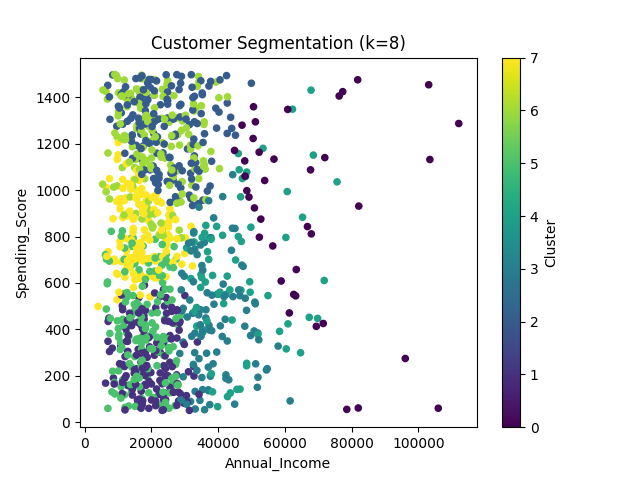
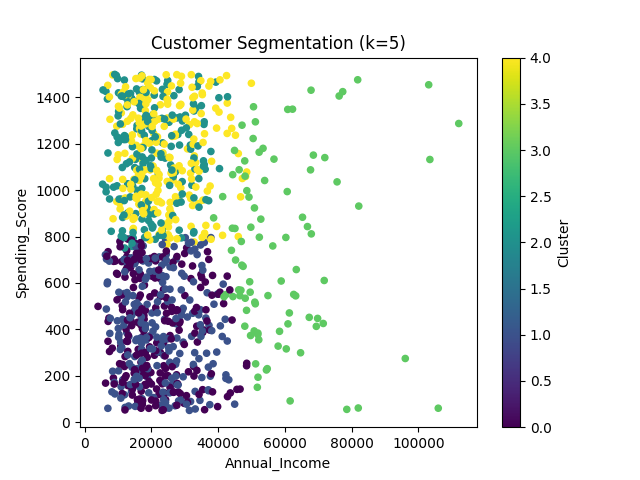
updated

diff --git a/templates/index.html b/templates/index.html
@@ -26,7 +26,7 @@
             display: inline-block;
             white-space: nowrap;
             position: relative;
-            animation: ticker 15s linear infinite;
+            animation: ticker 18s linear infinite;
             font-weight: 600;
             font-size: 1.1rem;
             color: #212529;
@@ -36,6 +36,20 @@
             0%   { transform: translateX(100%); }
             100% { transform: translateX(-100%); }
         }
+
+        /* Cell highlight styles */
+        .highlight-green { background-color: #28a745 !important; color: white !important; } /* Highest Income */
+        .highlight-red { background-color: #dc3545 !important; color: white !important; }   /* Lowest Spending */
+        .highlight-blue { background-color: #007bff !important; color: white !important; }  /* Highest Spending */
+
+        /* Legend styling */
+        .legend-box {
+            display: inline-block;
+            width: 18px;
+            height: 18px;
+            margin-right: 6px;
+            border-radius: 3px;
+        }
     </style>
 </head>
 <body class="bg-light">
@@ -44,7 +58,9 @@
     <!-- ✅ Professional Banner -->
     <div class="author-banner text-center">
         <div class="scrolling-text">
-            Final Project – Customer Segmentation | By: <span class="text-primary">Osazuwa Omoregbe</span> | 🌍 Deployed on <strong>Render</strong> (AWS deployment attempt unsuccessful)
+            FINAL PROJECT – Customer Segmentation at LG Corporation | By: 
+            <span class="text-primary">Osazuwa Stanley Omoregbe</span> | 🌍 Deployed on 
+            <strong>Render</strong> (AWS deployment attempt unsuccessful)
         </div>
     </div>
 
@@ -89,6 +105,77 @@
     <div class="card shadow-sm">
         <div class="card-body">
             {{ cluster_summary | safe }}
+            <script>
+                document.addEventListener("DOMContentLoaded", function() {
+                    const tables = document.querySelectorAll("table");
+                    tables.forEach(table => {
+                        table.classList.add("table", "table-striped", "table-bordered", "align-middle", "text-center");
+
+                        let rows = table.querySelectorAll("tbody tr");
+                        let maxIncome = -Infinity, minSpending = Infinity, maxSpending = -Infinity;
+                        let incomeIndex = -1, spendingIndex = -1;
+
+                        // Find column indexes
+                        table.querySelectorAll("thead th").forEach((th, i) => {
+                            if (th.innerText.includes("Annual_Income")) incomeIndex = i;
+                            if (th.innerText.includes("Spending_Score")) spendingIndex = i;
+                        });
+
+                        // Find max/min values
+                        rows.forEach(row => {
+                            let income = parseInt(row.cells[incomeIndex].innerText.replace(/,/g, ""));
+                            let spending = parseInt(row.cells[spendingIndex].innerText.replace(/,/g, ""));
+                            if (income > maxIncome) maxIncome = income;
+                            if (spending < minSpending) minSpending = spending;
+                            if (spending > maxSpending) maxSpending = spending;
+                        });
+
+                        // Apply highlights to specific cells
+                        rows.forEach(row => {
+                            let incomeCell = row.cells[incomeIndex];
+                            let spendingCell = row.cells[spendingIndex];
+                            let income = parseInt(incomeCell.innerText.replace(/,/g, ""));
+                            let spending = parseInt(spendingCell.innerText.replace(/,/g, ""));
+                            if (income === maxIncome) incomeCell.classList.add("highlight-green");
+                            if (spending === minSpending) spendingCell.classList.add("highlight-red");
+                            if (spending === maxSpending) spendingCell.classList.add("highlight-blue");
+                        });
+                    });
+                });
+            </script>
+
+            <!-- ✅ Legend -->
+            <div class="mt-3">
+                <p><span class="legend-box" style="background-color:#28a745;"></span> Highest Annual Income</p>
+                <p><span class="legend-box" style="background-color:#dc3545;"></span> Lowest Spending Score</p>
+                <p><span class="legend-box" style="background-color:#007bff;"></span> Highest Spending Score</p>
+            </div>
+
+            <!-- ✅ Insights Section -->
+            <div class="alert alert-info mt-4">
+                <h5>📌 Key Insights</h5>
+                <p>
+                    The cluster with the <strong>highest income</strong> (green) represents LG’s wealthiest customers, 
+                    who are prime candidates for premium product offerings.  
+                    The cluster with the <strong>lowest spending score</strong> (red) highlights customers who are 
+                    less engaged, suggesting a need for retention strategies.  
+                    Meanwhile, the cluster with the <strong>highest spending score</strong> (blue) identifies 
+                    LG’s most valuable and loyal customers, who should be prioritized for loyalty programs 
+                    and exclusive promotions.
+                </p>
+            </div>
+
+            <!-- ✅ Recommendations Section -->
+            <div class="alert alert-success mt-3">
+                <h5>💡 Strategic Recommendations</h5>
+                <ul class="mb-0">
+                    <li><strong>Premium Upsell:</strong> Target high-income customers with luxury products, extended warranties, and exclusive bundles.</li>
+                    <li><strong>Retention Campaigns:</strong> Re-engage low-spending clusters with personalized offers, discounts, and customer service outreach.</li>
+                    <li><strong>Loyalty Programs:</strong> Reward high-spending clusters with VIP memberships, early access to new products, and referral bonuses.</li>
+                    <li><strong>Data-Driven Marketing:</strong> Use segmentation insights to tailor campaigns by cluster, improving ROI and customer satisfaction.</li>
+                </ul>
+            </div>
+
             <a href="{{ url_for('download_summary') }}" class="btn btn-success mt-3">⬇ Download Cluster Summary CSV</a>
         </div>
     </div>

diff --git a/utils.py b/utils.py
@@ -4,7 +4,7 @@ import matplotlib.pyplot as plt
 import os
 import pandas as pd
 import matplotlib
-matplotlib.use("Agg")   # ✅ Use non-GUI backend (no Tkinter errors)
+matplotlib.use("Agg")   # ✅ Use non-GUI backend (avoids Tkinter errors)
 
 
 def load_data(path):
@@ -39,7 +39,7 @@ def run_clustering(df, n_clusters, plots_dir):
     X_scaled = scaler.fit_transform(X)
 
     # Run clustering
-    model = KMeans(n_clusters=n_clusters, random_state=42)
+    model = KMeans(n_clusters=n_clusters, random_state=42, n_init=10)
     df["Cluster"] = model.fit_predict(X_scaled)
 
     # Save scatter plot
@@ -61,6 +61,19 @@ def run_clustering(df, n_clusters, plots_dir):
         "Annual_Income": "mean",
         "Spending_Score": "mean"
     }).reset_index()
+
+    # ✅ Round values for readability
+    cluster_summary = cluster_summary.round({
+        "Age": 1,              # 1 decimal place
+        "Annual_Income": 0,    # whole numbers
+        "Spending_Score": 0    # whole numbers
+    })
+
+    # ✅ Format numbers with commas for presentation
+    cluster_summary["Annual_Income"] = cluster_summary["Annual_Income"].map(
+        lambda x: f"{int(x):,}")
+    cluster_summary["Spending_Score"] = cluster_summary["Spending_Score"].map(
+        lambda x: f"{int(x):,}")
 
     summary_path = os.path.join(plots_dir, "cluster_summary.csv")
     cluster_summary.to_csv(summary_path, index=False)
